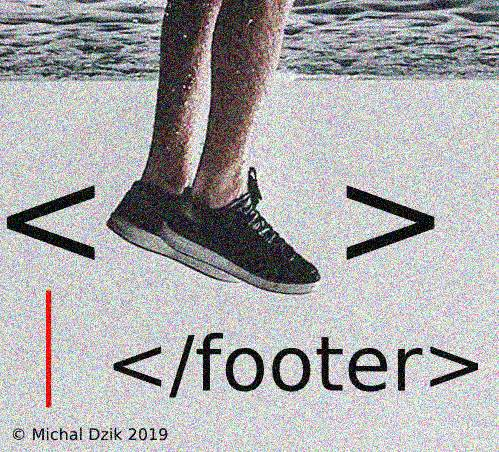
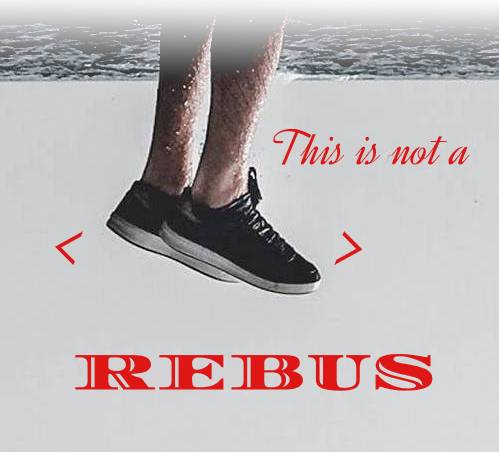
change design and footer image

diff --git a/css/style.css b/css/style.css
@@ -7,7 +7,8 @@
 body {
     max-width: 1600px;
     margin: 0 auto;
-    font-family: Arial, "Helvetica Neue", Helvetica, sans-serif;
+    font-family: 'Poppins', sans-serif;
+    /* font-family: Arial, "Helvetica Neue", Helvetica, sans-serif; */
 }
 
 .wrapper {
@@ -45,7 +46,7 @@ img {
     position: fixed;
     top: 30%;
     left: 10%;
-    background-color: rgba(16, 139, 148, 0.568);
+    background-color: rgba(16, 139, 148, 0.637);
     font-size: 40px;
     padding: 2% 5%;
     color: white;
@@ -69,7 +70,7 @@ img {
     bottom: 0;
     overflow-x: hidden;
     opacity: 0;
-    transition: opacity .45s;
+    transition: opacity .65s;
 
     -webkit-box-shadow: 0px -25px 43px -22px rgba(23, 37, 143, 1);
     -moz-box-shadow: 0px -25px 43px -22px rgba(23, 37, 143, 1);
@@ -78,9 +79,9 @@ img {
 
 .showFoot {
     opacity: 1;
-    -webkit-filter: invert(0.7);
+    /* -webkit-filter: invert(0.7);
     filter: invert(0.7);
-    /* background-image: url('https://img.pngio.com/collection-of-tv-static-png-36-images-in-collection-tv-static-png-1920_1080.png'); */
+    */
 
 }
 
@@ -242,6 +243,8 @@ a {
     #aboutMe {
         font-size: 250%;
     }
+
+
 
     .centerIt {
         font-size: 55px;

diff --git a/index.html b/index.html
@@ -12,6 +12,8 @@
     <link rel="shortcut icon" href="favicon.ico" type="image/x-icon">
     <link rel="icon" href="favicon.ico" type="image/x-icon">
 
+    <link href="https://fonts.googleapis.com/css?family=Poppins:400,700&display=swap" rel="stylesheet">
+
     <link rel="stylesheet" href="https://use.fontawesome.com/releases/v5.8.2/css/all.css"
         integrity="sha384-oS3vJWv+0UjzBfQzYUhtDYW+Pj2yciDJxpsK1OYPAYjqT085Qq/1cq5FLXAZQ7Ay" crossorigin="anonymous">
 
